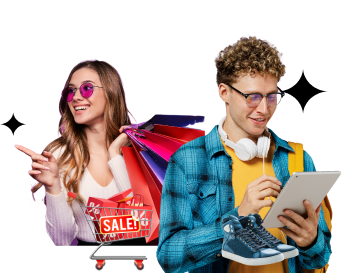
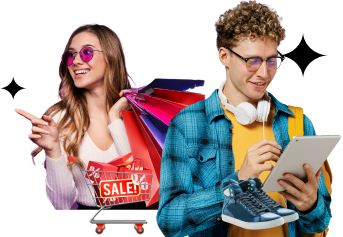
changed colour from blue to gray

diff --git a/src/components/products/SuggestedItemsDetails.tsx b/src/components/products/SuggestedItemsDetails.tsx
@@ -416,7 +416,7 @@ const SuggestedItemsDetails: React.FC = () => {
             <div
               className={`bg-white p-6 rounded-lg shadow-xl max-w-sm w-full mx-4 border-t-4 ${
                 modalConfig.type === "success"
-                  ? "border-customBlue"
+                  ? "border-gray-800"
                   : "border-red-500"
               } relative`}
             >
@@ -432,7 +432,7 @@ const SuggestedItemsDetails: React.FC = () => {
               <h2
                 className={`text-2xl font-bold mb-4 ${
                   modalConfig.type === "success"
-                    ? "text-customBlue"
+                    ? "text-gray-800"
                     : "text-red-600"
                 }`}
               >
@@ -453,7 +453,7 @@ const SuggestedItemsDetails: React.FC = () => {
                 <div
                   key={index}
                   className={`bg-gray-100 p-1.5 rounded-md cursor-pointer hover:opacity-90 ${
-                    mainImage === img ? "ring-2 ring-blue-500" : ""
+                    mainImage === img ? "ring-2 ring-gray-500" : ""
                   }`}
                   onClick={() => setMainImage(img)}
                 >
@@ -493,7 +493,7 @@ const SuggestedItemsDetails: React.FC = () => {
                 {product.name}
               </h1>
 
-              <span className="inline-block bg-blue-200 text-blue-800 text-xs md:text-sm rounded-xl p-1.5">
+              <span className="inline-block bg-gray-200 text-gray-800 text-xs md:text-sm rounded-xl p-1.5">
                 {product.unlimited
                   ? "Unlimited stock"
                   : `${availableQuantity} left in stock`}
@@ -554,12 +554,12 @@ const SuggestedItemsDetails: React.FC = () => {
                         disabled={!product.unlimited && item.quantity <= 0 && !isSizeInCart(product.id, item.id)}
                         className={`p-2 text-xs sm:text-sm border rounded-xl transition-colors ${
                           item.size === selectedSize
-                            ? "bg-blue-200 text-blue-800 border-blue-300" // Selected state
+                            ? "bg-gray-200 text-gray-800 border-gray-300" // Selected state
                             : isSizeInCart(product.id, item.id)
                             ? "bg-green-100 text-green-800 border-green-300 cursor-pointer" // In cart: light green background
                             : !product.unlimited && item.quantity <= 0
                             ? "bg-gray-100 text-gray-400 border-gray-200 cursor-not-allowed"
-                            : "bg-white text-blue-600 border-blue-300 hover:bg-gray-100 cursor-pointer"
+                            : "bg-white text-gray-600 border-gray-300 hover:bg-gray-100 cursor-pointer"
                         }`}
                         title={
                           isSizeInCart(product.id, item.id)
@@ -611,7 +611,7 @@ const SuggestedItemsDetails: React.FC = () => {
                 className={`w-full py-2.5 text-white rounded-xl transition-colors cursor-pointer ${ 
                   (!isInStock || isAddingToCart) && !(selectedSizeData && isSizeInCart(product.id, selectedSizeData.id)) // Condition to be gray
                     ? "bg-gray-400 cursor-not-allowed"
-                    : "bg-customBlue hover:brightness-90" // Blue otherwise (including when item is in cart)
+                    : "bg-gray-800 hover:brightness-90" // Blue otherwise (including when item is in cart)
                 }`}
                 type="button"
                 disabled={(!isInStock || isAddingToCart) && !(selectedSizeData && isSizeInCart(product.id, selectedSizeData.id))} // Disable only if out of stock or adding, but not if already in cart
@@ -644,7 +644,7 @@ const SuggestedItemsDetails: React.FC = () => {
             </p>
             {product.description.length > 300 && (
               <span
-                className={`text-blue-800 text-xs cursor-pointer`}
+                className={`text-gray-800 text-xs cursor-pointer`}
                 onClick={() => setIsDescriptionExpanded(!isDescriptionExpanded)}
               >
                 {isDescriptionExpanded ? "view less" : "view full description"}

diff --git a/src/components/products/ProductDetail.tsx b/src/components/products/ProductDetail.tsx
@@ -429,7 +429,7 @@ const ProductDetail = () => {
             <div
               className={`bg-white p-6 rounded-lg shadow-xl max-w-sm w-full mx-4 border-t-4 ${
                 modalConfig.type === "success"
-                  ? "border-customBlue"
+                  ? "border-gray-800"
                   : "border-red-500"
               } relative`}
             >
@@ -445,7 +445,7 @@ const ProductDetail = () => {
               <h2
                 className={`text-2xl font-bold mb-4 ${
                   modalConfig.type === "success"
-                    ? "text-customBlue"
+                    ? "text-gray-800"
                     : "text-red-600"
                 }`}
               >
@@ -466,7 +466,7 @@ const ProductDetail = () => {
                 <div
                   key={index}
                   className={`bg-gray-100 p-1.5 rounded-md cursor-pointer hover:opacity-90 ${
-                    mainImage === img ? "ring-2 ring-blue-500" : ""
+                    mainImage === img ? "ring-2 ring-gray-500" : ""
                   }`}
                   onClick={() => setMainImage(img)}
                 >
@@ -506,7 +506,7 @@ const ProductDetail = () => {
                 {product.name}
               </h1>
 
-              <span className="inline-block bg-blue-100 text-blue-800 text-xs md:text-sm rounded-xl p-1.5">
+              <span className="inline-block bg-gray-100 text-gray-800 text-xs md:text-sm rounded-xl p-1.5">
                 {product.unlimited
                   ? "Unlimited stock"
                   : `${availableQuantity} left in stock`}
@@ -570,12 +570,12 @@ const ProductDetail = () => {
                         }
                         className={`p-2 text-xs sm:text-sm border rounded-xl transition-colors ${
                           item.size === selectedSize
-                            ? "bg-blue-200 text-blue-800 border-blue-300" // Selected: light blue background
+                            ? "bg-gray-200 text-gray-800 border-gray-300" // Selected: light blue background
                             : isSizeInCart(product.id, item.id)
                             ? "bg-green-100 text-green-800 border-green-300 cursor-pointer" // In cart: light green background
                             : !product.unlimited && item.quantity <= 0
                             ? "bg-gray-100 text-gray-400 border-gray-200 cursor-not-allowed" // Disabled
-                            : "bg-white text-blue-600 border-blue-300 hover:bg-gray-100 cursor-pointer" // Not selected: White background
+                            : "bg-white text-gray-600 border-gray-300 hover:bg-gray-100 cursor-pointer" // Not selected: White background
                         }`}
                         title={
                           isSizeInCart(product.id, item.id)
@@ -629,7 +629,7 @@ const ProductDetail = () => {
                   className={`w-full py-2.5 px-3 text-white rounded-xl transition-colors cursor-pointer ${
                     !isInStock || isAddingToCart
                       ? "bg-gray-400 cursor-not-allowed"
-                      : "bg-customBlue hover:brightness-90"
+                      : "bg-gray-800 hover:brightness-90"
                   }`}
                   type="button"
                   disabled={!isInStock || isAddingToCart}
@@ -661,7 +661,7 @@ const ProductDetail = () => {
             </p>
             {product.description.length > 300 && (
               <span
-                className={` text-blue-800 text-xs cursor-pointer`}
+                className={` text-gray-800 text-xs cursor-pointer`}
                 onClick={() => setIsDescriptionExpanded(!isDescriptionExpanded)}
               >
                 {isDescriptionExpanded ? "view less" : "view full description"}

diff --git a/src/pages/homepage/Homepage.tsx b/src/pages/homepage/Homepage.tsx
@@ -9,7 +9,7 @@ import type { WishItem } from "../orders/types";
 import { ProductAPIResponse, ProductItem } from "../homepage/types/data-types";
 import { Link } from "react-router-dom";
 import { useState, useEffect } from "react";
-import banner from "/images/banner.png";
+import banner from "/images/Frame 1618876996.png";
 
 const getPageSize = () => (window.innerWidth < 768 ? 10 : 12); // md breakpoint
 
@@ -134,7 +134,7 @@ const Homepage = () => {
           ...newData.latest_items.results,
         ]);
         setHasMoreItems(!!newData.latest_items?.next);
-        setCurrentPage(nextPage);
+        setCurrentPage(nextPage); 
         queryClient.setQueryData(["products", nextPage, pageSize], newData);
       } else {
         setHasMoreItems(false);
@@ -207,7 +207,7 @@ const Homepage = () => {
 
   return (
     <div className="w-full  py-4 px-5 md:px-16 lg:px-24">
-      <div className="flex flex-col md:grid md:grid-cols-2 gap-8 lg:gap-12 container mx-auto mb-4 mt-8 md:mt-8 md:place-items-center">
+      <div className="flex flex-col md:grid md:grid-cols-2 gap-8 lg:gap-12 lg:px-6 container mx-auto mb-4 mt-8 md:mt-8 md:place-items-center">
         <div className="w-full md:col-start-2 md:row-start-1 flex items-center justify-center ">
           <div className="relative w-full flex justify-center">
             <img
@@ -217,7 +217,7 @@ const Homepage = () => {
             />
             <div className="absolute top-1/2 left-1/2 transform -translate-x-1/2 -translate-y-1/2">
               <Link to="/new-arrivals">
-                <button className="bg-customBlue text-white text-sm md:text-base font-medium rounded-md px-8 py-3 hover:brightness-90 transition-all duration-300 shadow-lg hover:shadow-xl opacity-70 animate-pulse">
+                <button className="bg-gray-800 text-white text-sm md:text-base font-medium rounded-md px-8 py-3 hover:brightness-90 transition-all duration-300 shadow-lg hover:shadow-xl opacity-70 animate-pulse">
                   Shop Now
                 </button>
               </Link>
@@ -226,14 +226,16 @@ const Homepage = () => {
         </div>
         <div className="flex flex-col justify-center items-center space-y-4 md:space-y-6 md:max-w-xl w-full px-2 md:px-0 md:col-start-1">
           <div className="w-full space-y-3 md:space-y-4 lg:space-y-6 text-center md:text-left">
-            <h1 className="text-[22px] font-bold leading-[1.3] tracking-[-0.02em] sm:text-3xl md:text-4xl lg:text-5xl text-gray-900 px-3 md:px-0">
+            <h1 className="font-bold text-3xl md:text-4xl lg:text-5xl spa text-gray-900 px-3 md:px-0">
+              <span className="block mb-2">
+                Shop Smarter,
+              </span>
               <span className="block mb-1">
-                Furnish with Fun, Discover What Your Little Ones Love!
+                 Find What You Love
               </span>
             </h1>
-            <p className="hidden md:block text-base sm:text-lg md:text-xl text-gray-600 leading-relaxed max-w-[90%] mx-auto md:mx-0">
-              Exclusive Deals. Stress-Free Shopping for Your Kids' Perfect
-              Space.
+            <p className=" md:block text-xs md:text-sm text-gray-600 leading-relaxed max-w-[90%] mx-auto md:mx-0">
+              *This is Fluxdevs demo e-commerce website created for marketing and presentation purposes only. All products are fictitious and not for sale.
             </p>
           </div>
         </div>

diff --git a/src/components/Header.tsx b/src/components/Header.tsx
@@ -10,7 +10,7 @@ import SearchInput from "./SearchInput";
 import { useAuth } from "@/pages/auth/AuthContext";
 import { FaUserCheck } from "react-icons/fa6";
 import { FaRegHeart } from "react-icons/fa";
-import logo from '/images/logo.png'
+import logo from '/images/full_logo.png'
 
 interface FilterState {
   selectedSubCategories: number[];
@@ -433,12 +433,12 @@ const Header = () => {
         {/* Desktop Navigation */}
         <div className="hidden md:block">
           <div className="flex justify-between items-center">
-            <Link to='/'><img src={logo} alt="logo" /></Link>  
+            <Link to='/'><img src={logo} alt="logo" className="h-10" /></Link>  
             <div className="flex space-x-6 items-center">
               <div className="relative">
                 {isUserAuthenticated ? (
                   <div className="flex items-center gap-3 cursor-pointer">
-                    <span className="text-sm font-medium bg-blue-200 px-3 py-1 rounded-md">
+                    <span className="text-sm font-medium bg-gray-300 px-3 py-1 rounded-md">
                       Welcome, {displayName}
                     </span>
                     <span onClick={toggleUserDropdown}><FaUserCheck size={24} /></span>  
@@ -539,7 +539,7 @@ const Header = () => {
               >
                 {isMobileMenuOpen ? <AiOutlineClose size={28} /> : <AiOutlineMenu size={28} />}
               </button>
-              <Link to='/'><img src={logo} alt="logo" /></Link>
+              <Link to='/'><img src={logo} className="h-10" alt="logo" /></Link>
             </div>
             
             <div className="flex items-center space-x-4">

diff --git a/src/components/Footer.tsx b/src/components/Footer.tsx
@@ -1,6 +1,6 @@
 import { FaFacebookF, FaInstagram, FaTiktok } from "react-icons/fa";
 import { Link } from "react-router-dom";
-import logo from '/images/logo.png'
+import logo from '/images/full_logo.png'
 
 
 const Footer = () => {
@@ -8,7 +8,7 @@ const Footer = () => {
     <footer className="bg-gray-100 pb-10 px-6">
       <div className="max-w-6xl mx-auto">
         {/* Newsletter Subscription */}
-        <div className="bg-customBlue md:w-[40%] w-full mx-auto text-white p-6 rounded-lg text-center mb-10">
+        <div className="bg-black md:w-[40%] w-full mx-auto text-white p-6 rounded-lg text-center mb-10">
           <input 
             type="email" 
             placeholder="Enter your email address" 
@@ -22,7 +22,7 @@ const Footer = () => {
         <div className="flex max-md:flex-col justify-evenly">
           {/* Shop Info */}
           <div className="font-poppins">
-           <img src={logo} alt="logo" />
+           <img src={logo} alt="logo" className="h-10"/>
             <p className="text-gray-600 mt-2">
               We don't just design spaces,we <br className="max-md:hidden"/> define Destinies
             </p>
@@ -77,7 +77,7 @@ const Footer = () => {
         </div>
 
         <div className="mt-10 text-center font-poppins ">
-          <p className="text-gray-600 text-sm">KidsDesignCompany  © {new Date().getFullYear()}, All Rights Reserved</p>
+          <p className="text-gray-600 text-sm">Shop  © {new Date().getFullYear()}, All Rights Reserved</p>
         </div>
       </div>
     </footer>

diff --git a/src/pages/homepage/components/ImageSlider.tsx b/src/pages/homepage/components/ImageSlider.tsx
@@ -115,12 +115,12 @@ const ImageSlider: React.FC<ImageSliderProps> = ({ data }) => {
                   <h3 className="line-clamp-3 text-3xl md:text-4xl lg:text-5xl font-bold text-gray-800 leading-tight pb-0 mb-0 capitalize">
                     {image.name.toUpperCase()}
                   </h3>
-                  <div className="h-1 w-44 mt-0 pt-0 bg-blue-600"></div>
+                  <div className="h-1 w-44 mt-0 pt-0 bg-gray-600"></div>
                   <p className="text-gray-600 text-lg lg:text-xl">
                     Discover our exclusive collection
                   </p>
                   <button
-                    className="bg-customBlue text-white px-8 py-3 rounded-lg text-lg font-medium hover:bg-blue-700 transition-colors w-fit"
+                    className="bg-gray-800 text-white px-8 py-3 rounded-lg text-lg font-medium hover:bg-gray-700 transition-colors w-fit"
                     onClick={() => handleClick(image.id.split("-")[0])}
                   >
                     Shop Now

diff --git a/index.html b/index.html
@@ -2,7 +2,7 @@
 <html lang="en">
   <head>
     <meta charset="UTF-8" />
-    <link rel="icon" type="image/svg+xml" href="/images/logo.png" />
+    <link rel="icon" type="image/svg+xml" href="\images\cart.png" />
     <link rel="preconnect" href="https://fonts.googleapis.com">
     <link rel="preconnect" href="https://fonts.gstatic.com" crossorigin>
     <link href="https://fonts.googleapis.com/css2?family=Poppins:ital,wght@0,100;0,200;0,300;0,400;0,500;0,600;0,700;0,800;0,900;1,100;1,200;1,300;1,400;1,500;1,600;1,700;1,800;1,900&family=Raleway:ital,wght@0,100..900;1,100..900&display=swap" rel="stylesheet">

diff --git a/src/admin/components/Sidebar.tsx b/src/admin/components/Sidebar.tsx
@@ -78,7 +78,7 @@ const Sidebar = ({
           // Mobile Flyout Menu Top
           <>
             <Link to="/admin" onClick={() => handleNavClick("/admin")} className="focus:outline-none focus:ring-2 focus:ring-gray-400 rounded-sm">
-              <img src={"/images/logo.png"} alt={"SHOP.CO Logo"} className="h-9 w-auto" />
+              <img src={"/images/logo.png"} alt={"SHOP.CO Logo"} className="h-9 aspect-square" />
             </Link>
             <button 
               onClick={toggleMobileMenu} 

diff --git a/src/pages/categories/ProductCategory.tsx b/src/pages/categories/ProductCategory.tsx
@@ -179,7 +179,7 @@ const ProductCategory = () => {
       </div>
 
       {/* Products */}
-      <div className="px-5 md:px-16 lg:px-24">
+      <div className="grid grid-cols-2 sm:grid-cols-3 md:grid-cols-4 gap-6 md:gap-10">
         {sortedProducts.map(product => {
           const wishlistInfo = getWishlistInfo(product.id);
           return (

diff --git a/src/pages/auth/Login.tsx b/src/pages/auth/Login.tsx
@@ -76,7 +76,7 @@ const Login = () => {
         <div className="mb-8 text-center">
           <Link to="/">
             <img
-              src="/images/logo.png"
+              src="/images/full_logo.png"
               alt="KidsDesignCompanyLogo Logo"
               className="h-10 w-auto mx-auto cursor-pointer"
             />
